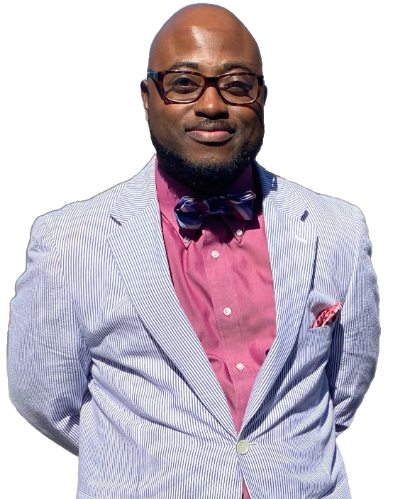
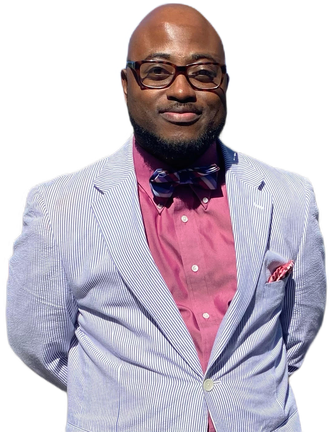
sizing of pastor arthur in welcome section is done

diff --git a/src/containers/HomeWelcomeSection/HomeWelcomeSection.scss b/src/containers/HomeWelcomeSection/HomeWelcomeSection.scss
@@ -47,8 +47,9 @@
         '. greet img img'
         '. button img img';
         .worshipImage{
-            height: unset;
-            max-width: 100%;
+            height: 100%;
+            width: 100%;
+            object-fit: contain;
             display: block;
         }
         
